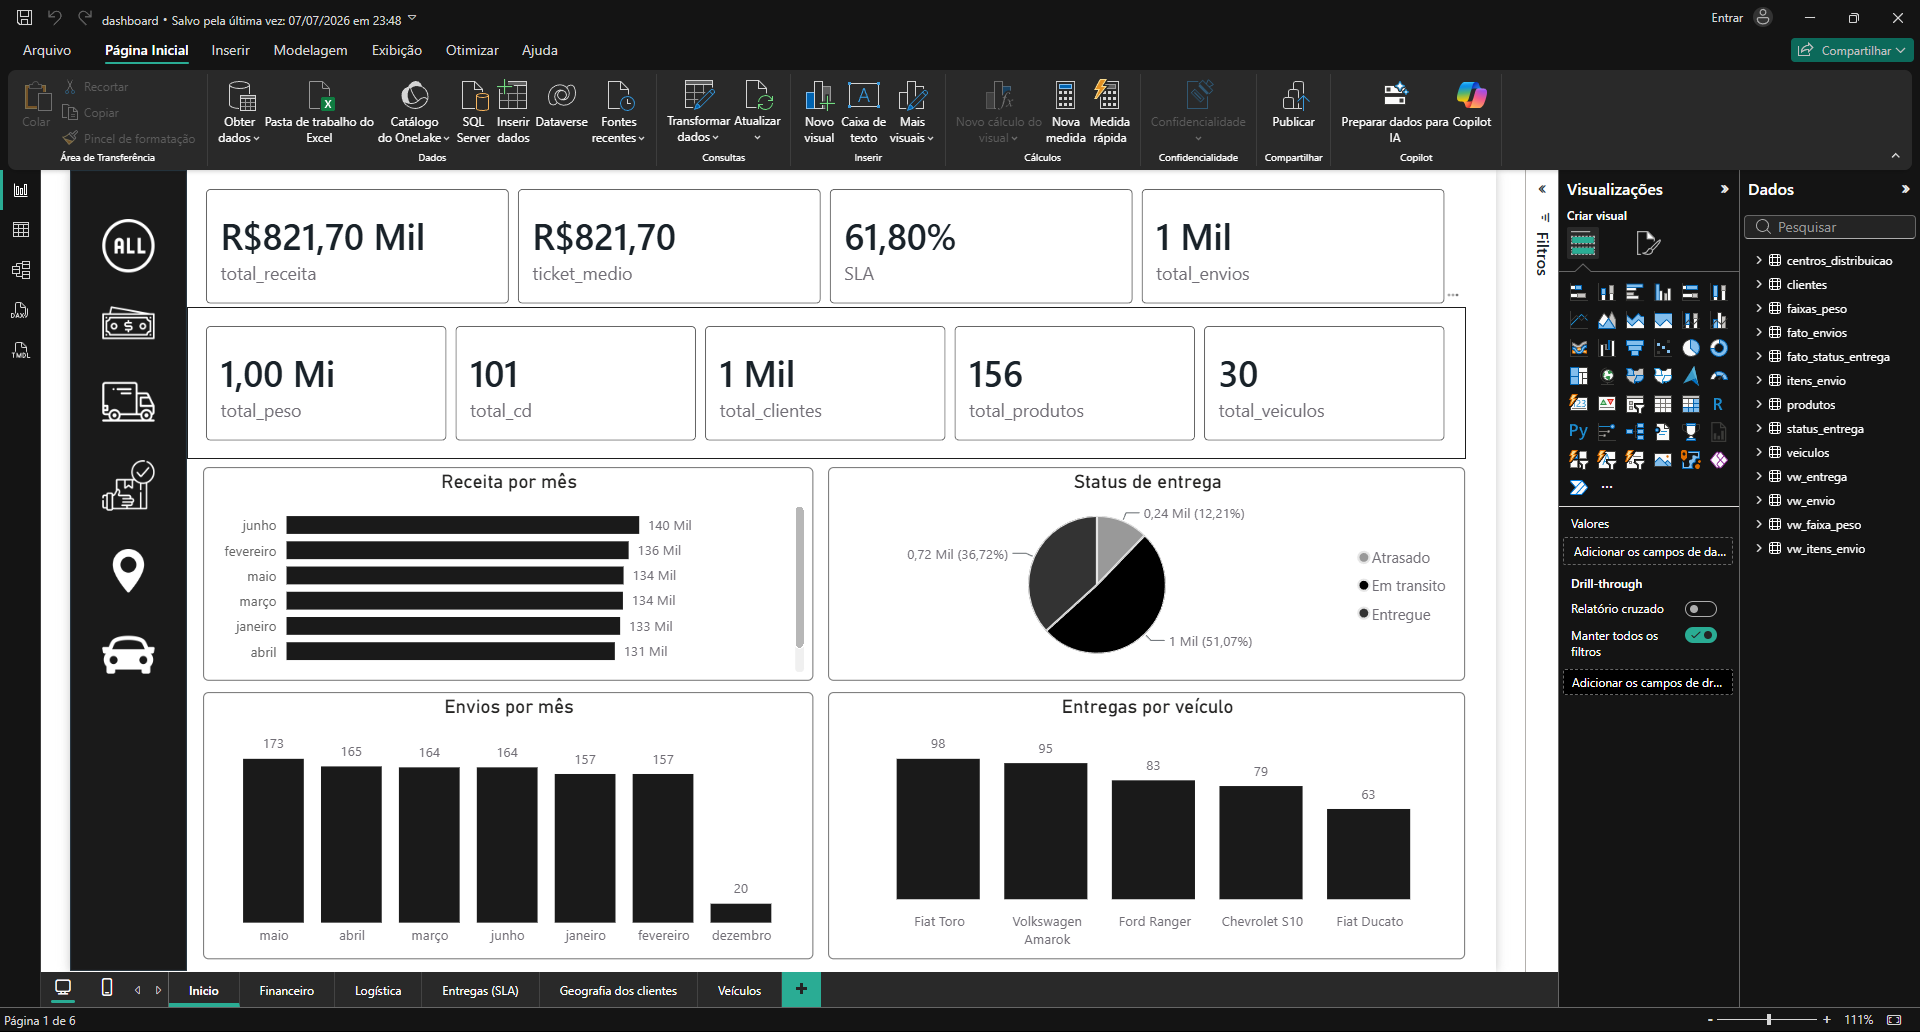
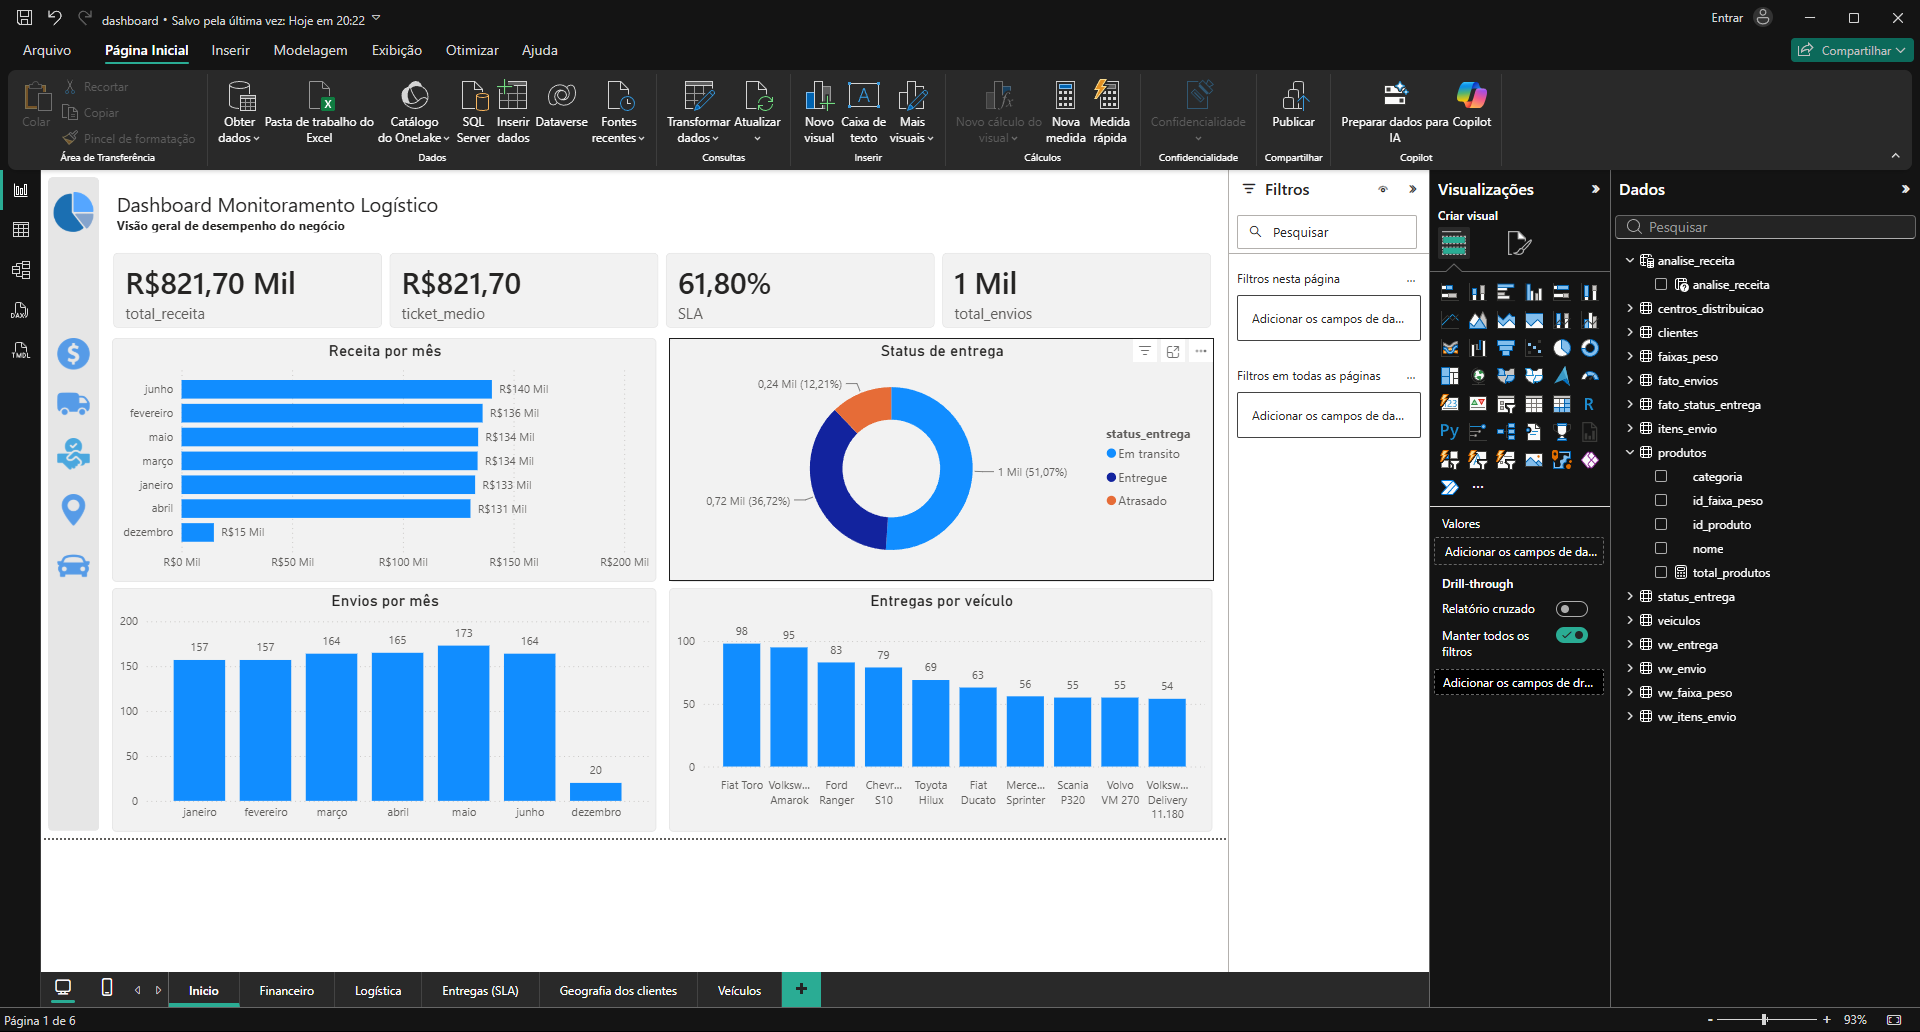
Subindo alterações na descrição

diff --git a/descricao.html b/descricao.html
@@ -98,16 +98,19 @@ Nesse projeto, eu estruturei uma simulação completa de uma operação logísti
         <div class="carousel-wrapper">
           <div class="carousel-track">
             <div class="carousel-item">
-              <img src="img/analise_monitoramento/readmeee.png" alt="Readme do projeto">
+              <img src="img/analise_monitoramento/dashpower.png" alt="Dasboard Inicial">
             </div>
             <div class="carousel-item">
-              <img src="img/analise_monitoramento/populando.png" alt="Código do projeto | Populando banco">
+              <img src="img/analise_monitoramento/join_vw_envio.png" alt="Joins SQL">
             </div>
             <div class="carousel-item">
-              <img src="img/analise_monitoramento/dashpower.png" alt="Dashboard Inicial em Power BI">
+              <img src="img/analise_monitoramento/financeiro.png" alt="Dasboard Financeiro">
             </div>
             <div class="carousel-item">
-              <img src="img/analise_monitoramento/codigo.png" alt="Código do projeto | Estrutura de código">
+              <img src="img/analise_monitoramento/codigo.png" alt="Código projeto">
+            </div>
+            <div class="carousel-item">
+              <img src="img/analise_monitoramento/readmeee.png" alt="Readme do projeto | Estrutura de código">
             </div>
           </div>
           <div class="carousel-hint">
